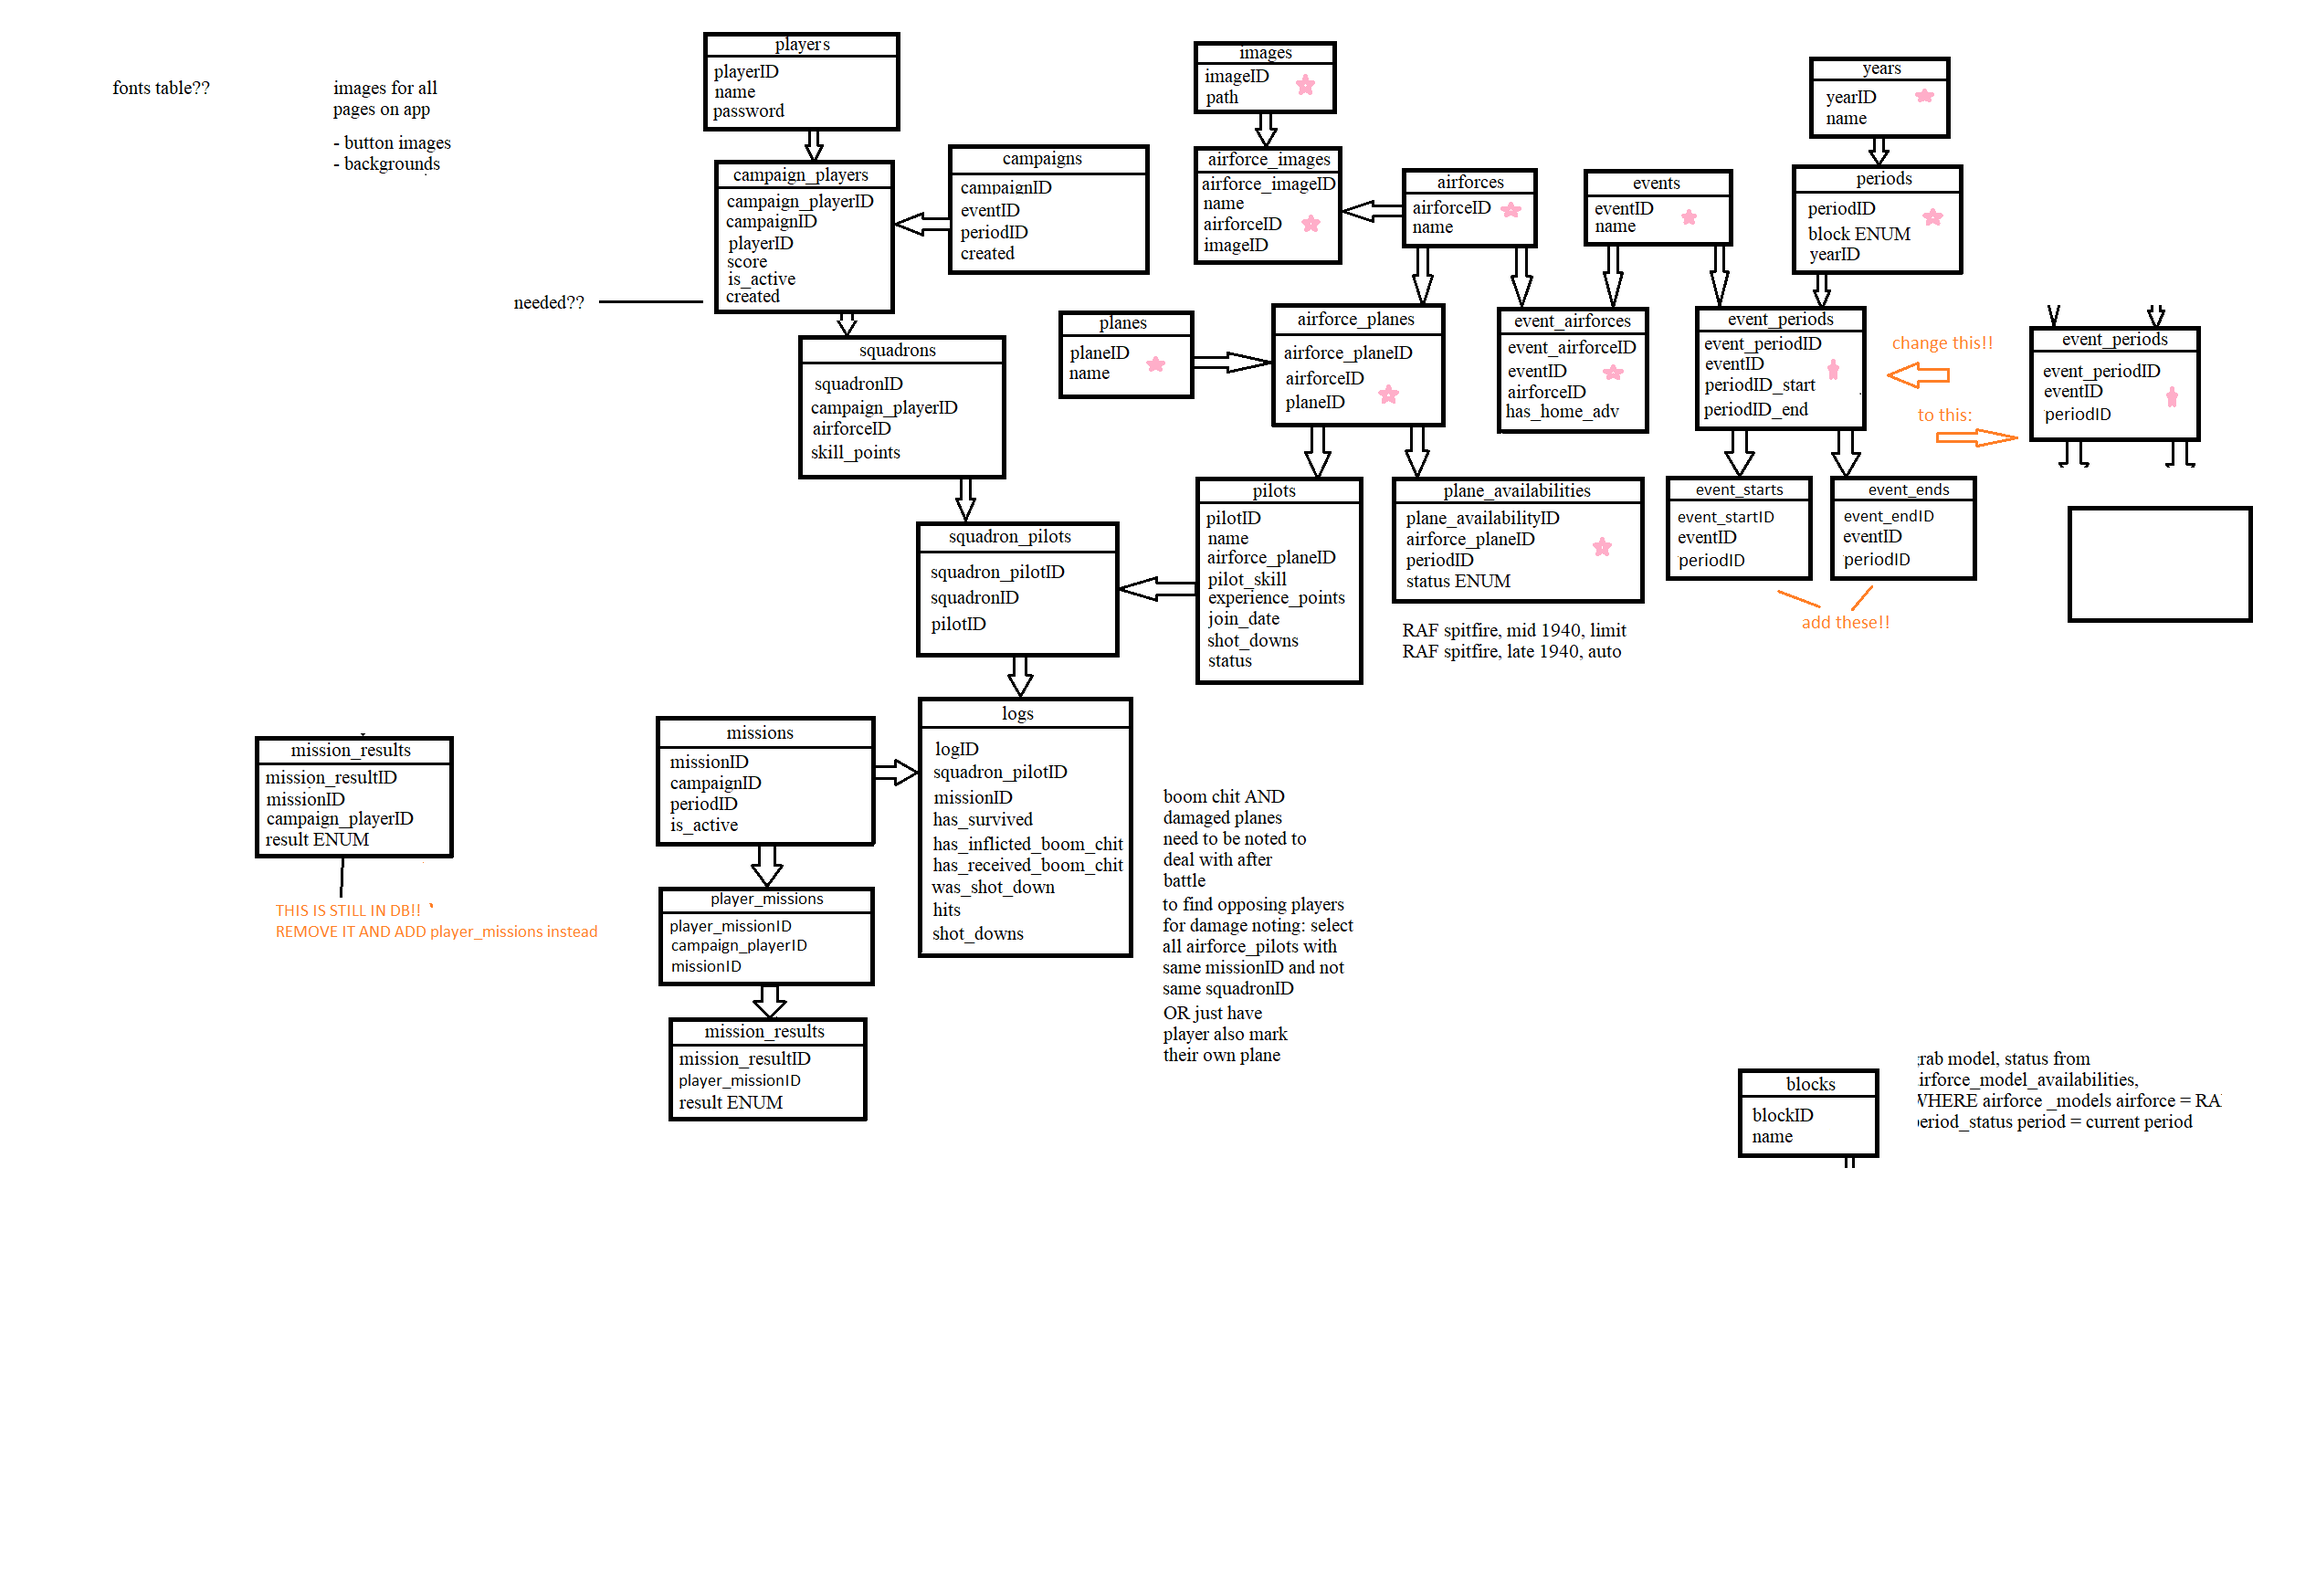
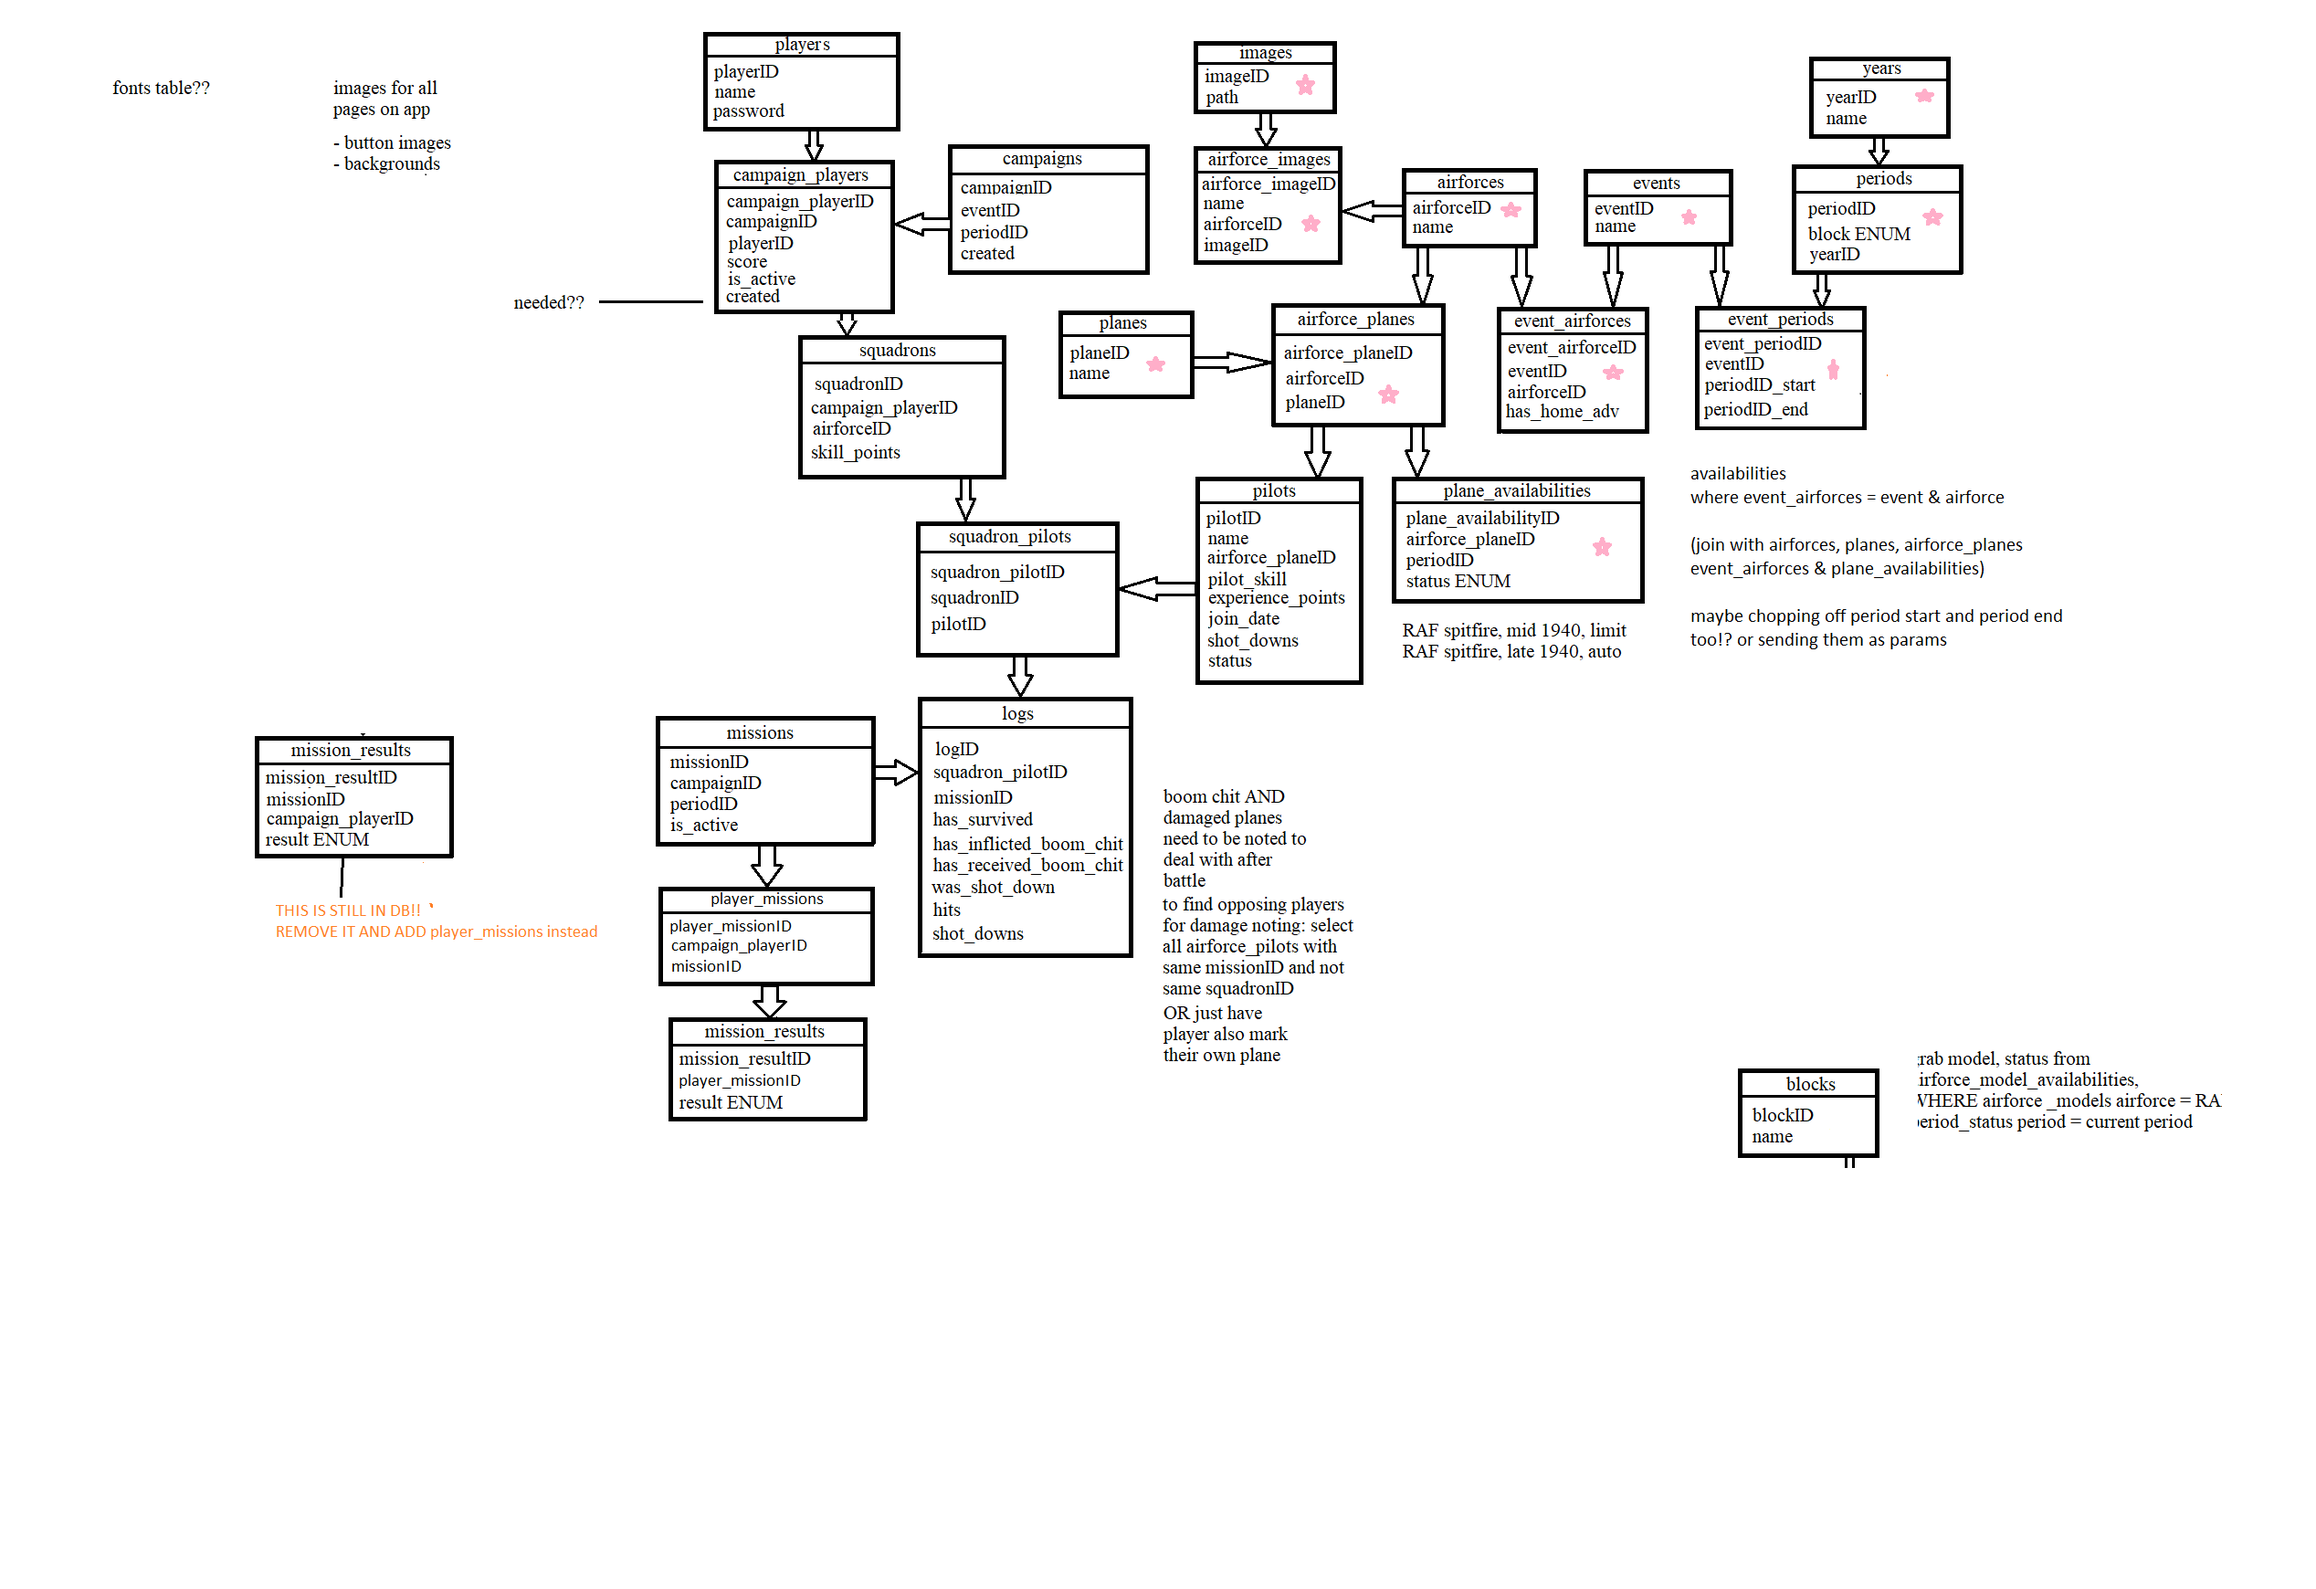
PlaneAvailabilities

Changed region(s): [[0.7165, 0.2793, 0.9034, 0.4034], [0.8411, 0.1862, 0.9657, 0.2793], [0.8099, 0.2172, 0.8411, 0.2483]]

diff --git a/Workspace/CampaignTracker/src/controller/EventAirForceCellController.java b/Workspace/CampaignTracker/src/controller/EventAirForceCellController.java
@@ -13,7 +13,7 @@ import javafx.scene.layout.AnchorPane;
 import model.Event;
 import model.EventAirForce;
 
-public class EventAirForceCellController extends JFXListCell<EventAirForce> implements Rootable{
+public class EventAirForceCellController extends JFXListCell<EventAirForce> implements Rootable {
 	
 	@FXML
     private ResourceBundle resources;
@@ -24,15 +24,27 @@ public class EventAirForceCellController extends JFXListCell<EventAirForce> impl
     @FXML private AnchorPane rootAP;
     @FXML private Label nameLbl;
     @FXML private Label homeAdvLbl;
-    @FXML private JFXButton planesBtn; ///////???????
+    @FXML private JFXButton planesBtn;
 
     @FXML
     void initialize() {
-      
+      //????????????+++++++++++
+    	//show planes available:
+    	planesBtn.setOnAction(event -> {
+    		new PlaneAvailabilitiesController(this.event, nameLbl.getText()).showStage();
+    	});
     }
     
     //root element for this controller:
   	private final Parent root = Rootable.getRoot(this, "/view/eventAirForceCell.fxml");
+  	
+  	private final Event event; //event covered
+  	
+  	//constructor:
+  	EventAirForceCellController(Event event) {  //++++++++++++++++++++think about passing an eventBuilder instead!! 
+  		this.event = event; //set event covered
+    }
+    
     
     //update cell with eventAirForce data:
   	@Override 
@@ -46,11 +58,10 @@ public class EventAirForceCellController extends JFXListCell<EventAirForce> impl
 			//populate cell with data from eventAirForce:
 			nameLbl.setText(eventAirForce.getAirForceName()); 
 			homeAdvLbl.setText(Boolean.toString(eventAirForce.getHasHomeAdv()));
-			////++++++++++++something here with regard to setting button action ++++++++
 			
 			setText(null); 
 			setGraphic(rootAP); //set this root element as the graphic	
-      }
+	    }
   }
     
     

diff --git a/Workspace/CampaignTracker/src/controller/EventsController.java b/Workspace/CampaignTracker/src/controller/EventsController.java
@@ -99,7 +99,7 @@ public class EventsController implements Frameable, Rootable {
     private void setLViewListener() {
     	
     	eventsLV.getSelectionModel().selectedItemProperty().addListener(new ChangeListener<Event>() {
-    	    
+    		
     		@Override  //override changeListener's changed: 
     	    public void changed(ObservableValue<? extends Event> observable, Event oldVal, Event newVal) {
     			
@@ -111,13 +111,13 @@ public class EventsController implements Frameable, Rootable {
     	        //add selected event's air forces to observable eventAirforces:
     	        eventAirforces = FXCollections.observableArrayList(newVal.getEventAirForces());
     	        airForcesLV.setItems(eventAirforces); //set list view with eventAirforces
-    	        airForcesLV.setCellFactory(EventAirForceCellController -> new EventAirForceCellController());
+    	        //+++++++++++++++++make an eventbuilder here, using newVal to pull its name and periods. then pass it to event airforce controller to add to it there!! 
+    	        airForcesLV.setCellFactory(EventAirForceCellController -> new EventAirForceCellController(newVal));
     	    }
     	});
     }
     //https://stackoverflow.com/questions/12459086/how-to-perform-an-action-by-selecting-an-item-from-listview-in-javafx-2
     
-   
     @Override
 	public void setRoot() { root = Rootable.getRoot(this, "/view/events.fxml"); } //set root
 	@Override 

diff --git a/Workspace/CampaignTracker/src/controller/PlaneAvailabilitiesController.java b/Workspace/CampaignTracker/src/controller/PlaneAvailabilitiesController.java
@@ -1,0 +1,52 @@
+package controller;
+
+import java.net.URL;
+import java.util.ResourceBundle;
+
+import javafx.fxml.FXML;
+import javafx.scene.Parent;
+import javafx.scene.Scene;
+import javafx.scene.control.Label;
+import javafx.stage.Stage;
+import model.Event;
+
+public class PlaneAvailabilitiesController implements Rootable {
+	
+	@FXML
+    private ResourceBundle resources;
+    @FXML
+    private URL location;
+    
+    @FXML
+    private Label testLbl;
+
+    
+    @FXML
+    void initialize() {
+    	//testLbl.setText(event.getStartPeriod().toString());
+    	testLbl.setText(airForceName);
+
+    }
+    
+  	private final Stage stage = new Stage(); //stage
+    private final Scene scene; //scene
+    
+    //private final Event event; //event covered
+    private String airForceName; //airForce /////////////////////not needed here! :P
+    
+    //constructor:
+    PlaneAvailabilitiesController(Event event, String airForceName) {
+    	//this.event = event; //assign event covered
+    	this.airForceName = airForceName;
+    	//call select here, passing in values +++++++++++++++++
+    	scene = new Scene(Rootable.getRoot(this, "/view/planeAvailabilities.fxml")); //add root to scene
+    	stage.setScene(scene); //add scene to stage
+    	
+    }
+    
+    //show stage:
+    void showStage() { stage.showAndWait(); }
+    
+        
+
+}

diff --git a/Workspace/PopulateDB/src/com/brs/Main.java b/Workspace/PopulateDB/src/com/brs/Main.java
@@ -46,8 +46,8 @@ public class Main implements InsertBlocks, InsertYears, InsertPeriods, InsertEve
 		System.out.println(" INSERTING DATA:");
 		
 		//=====================these are adding all data: +++++++++++++++++++++++
-		InsertAirForceData_TEST.insert();
-		InsertEventData_TEST.insert();
+		////////InsertAirForceData_TEST.insert();
+		/////////////InsertEventData_TEST.insert();
 		
 		
 		//InsertPlayer_TEST.insert("Bob", "1234");
@@ -62,9 +62,11 @@ public class Main implements InsertBlocks, InsertYears, InsertPeriods, InsertEve
 		SelectAll.select("periods");
 		SelectAll.select("event_periods");
 		
+		SelectAll.select("event_airforces");
 		
-		
-		
+		SelectAll.select("planes");
+		SelectAll.select("airforce_planes");
+		SelectAll.select("plane_availabilities");
 		
 		/*
 		//add blocks to DB:

diff --git a/Workspace/CampaignTracker/src/controller/EventCellController.java b/Workspace/CampaignTracker/src/controller/EventCellController.java
@@ -28,7 +28,7 @@ public class EventCellController extends JFXListCell<Event> implements Rootable 
     }
 	
     //root element for this controller:
-  	private final Parent root = Rootable.getRoot(this, "/view/eventCell.fxml"); //?????????????? needed?????????
+  	private final Parent root = Rootable.getRoot(this, "/view/eventCell.fxml");
     
   	//instance of EventsController:
 	private final EventsController selectEventCtrlr;  //?????????????? needed?????????

diff --git a/Workspace/CampaignTracker/src/controller/FrameController.java b/Workspace/CampaignTracker/src/controller/FrameController.java
@@ -85,7 +85,7 @@ public class FrameController implements Rootable, Fadeable {
     //====================================
     
     private final Stage stage = new Stage(); //stage
-    private Scene scene; //scene
+    private final Scene scene; //scene
     
     //frame.fxml controller:
   	private static FrameController singleFrameCtrlr = null;

diff --git a/Workspace/CampaignTracker/src/model/Event.java b/Workspace/CampaignTracker/src/model/Event.java
@@ -5,7 +5,7 @@ import java.util.List;
 
 public class Event {
 	
-	private String name; //name of event
+	private String name; //name of event //+++++++++++++++++++++++CHANGE TO EVENTNAME!!
 	private Period startPeriod; //start period
 	private Period endPeriod; //end period
 	private List<EventAirForce>eventAirForces; //air forces involved
